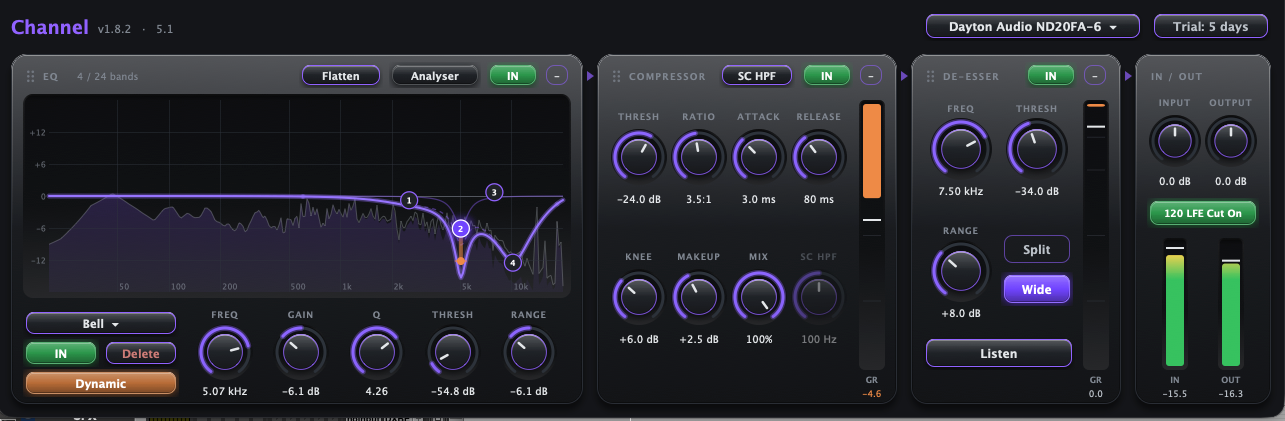
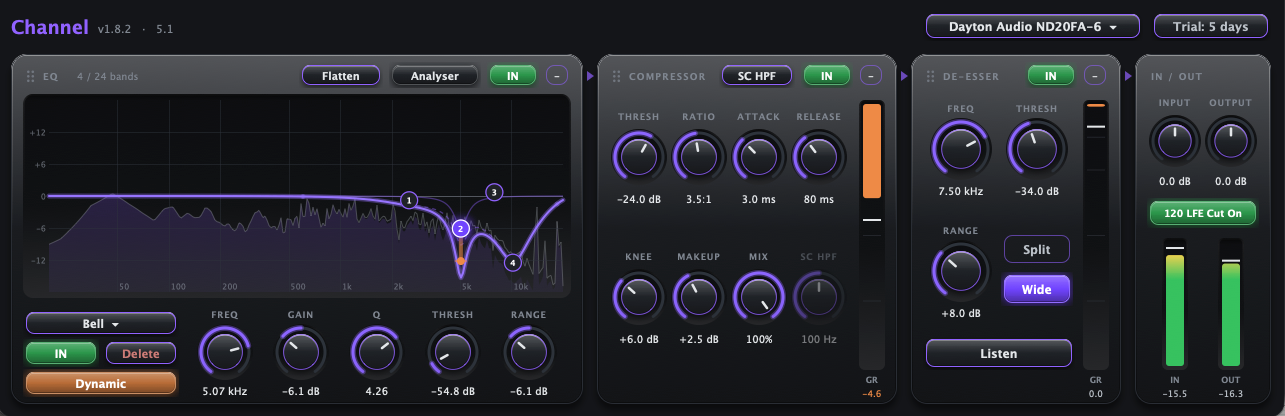
Larger Channel screenshot on its app page
Claude-Session: https://claude.ai/code/session_01UFfgZRSipLT8a9sTP7rx8N

diff --git a/docs/apps/channel.html b/docs/apps/channel.html
@@ -39,7 +39,7 @@
     <dl class="meta"><dt>Version</dt><dd>1.9.1</dd><dt>Requires</dt><dd>macOS 13 Ventura or later</dd><dt>Runs on</dt><dd>Apple silicon or Intel</dd><dt>Type</dt><dd>Pro Tools plug-in</dd></dl>
   </div>
 </div>
-<figure class="card shot"><a href="../assets/shots/channel.png"><img src="../assets/shots/channel.png" alt="Channel screenshot"></a></figure>
+<figure class="card shot wide"><a href="../assets/shots/channel.png"><img src="../assets/shots/channel.png" alt="Channel screenshot"></a></figure>
 <section class="others"><div class="eyebrow" style="margin-bottom:12px">More apps</div><div class="row"><a class="chip" style="--c:#9b6dff" href="cone.html"><img class="icon pic" style="--c:#9b6dff" src="../assets/icons/cone.png" alt="">Cone</a><a class="chip" style="--c:#9b6dff" href="paddle.html"><img class="icon pic" style="--c:#9b6dff" src="../assets/icons/paddle.png" alt="">Paddle</a><a class="chip" style="--c:#9b6dff" href="conduit.html"><img class="icon pic" style="--c:#9b6dff" src="../assets/icons/conduit.png" alt="">Conduit</a><a class="chip" style="--c:#9b6dff" href="silencer.html"><img class="icon pic" style="--c:#9b6dff" src="../assets/icons/silencer.png" alt="">Silencer</a><a class="chip" style="--c:#9b6dff" href="transmitter-network.html"><img class="icon pic" style="--c:#9b6dff" src="../assets/icons/transmitter-network.png" alt="">Transmitter Network</a><a class="chip" style="--c:#9b6dff" href="gauge.html"><img class="icon pic" style="--c:#9b6dff" src="../assets/icons/gauge.png" alt="">Gauge</a></div></section>
 </main>
 <footer class="site"><div class="wrap">

diff --git a/assets/style.css b/assets/style.css
@@ -209,3 +209,4 @@ figure.shot img { max-width: min(calc(100vw - 60px), 520px); max-height: 280px; 
 .detail ul.feat li::before { top: 11px; width: 8px; height: 8px; }
 .detail .meta { font-size: 13px; gap: 4px 14px; }
 .detail .side { grid-template-columns: 1.35fr 1fr; }
+figure.shot.wide img { max-width: min(calc(100vw - 60px), 1150px); max-height: 420px; }

diff --git a/docs/assets/style.css b/docs/assets/style.css
@@ -209,3 +209,4 @@ figure.shot img { max-width: min(calc(100vw - 60px), 520px); max-height: 280px; 
 .detail ul.feat li::before { top: 11px; width: 8px; height: 8px; }
 .detail .meta { font-size: 13px; gap: 4px 14px; }
 .detail .side { grid-template-columns: 1.35fr 1fr; }
+figure.shot.wide img { max-width: min(calc(100vw - 60px), 1150px); max-height: 420px; }

diff --git a/build.py b/build.py
@@ -141,7 +141,13 @@ def build_app(a):
         f'<a class="chip" style="--c:{o["color"]}" href="{o["id"]}.html">{icon(o, up="../")}{e(o["name"])}</a>'
         for o in APPS if o["id"] != a["id"])
     sh = shot(a, "../")
-    shot_html = f'<figure class="card shot"><a href="{sh}"><img src="{sh}" alt="{e(a["name"])} screenshot"></a></figure>' if sh else ""
+    wide = ""
+    if sh:
+        import struct
+        with open(ROOT / "assets" / "shots" / f"{a['id']}.png", "rb") as fh:
+            w, h = struct.unpack(">II", fh.read(24)[16:24])
+        wide = " wide" if w / h > 2.2 else ""
+    shot_html = f'<figure class="card shot{wide}"><a href="{sh}"><img src="{sh}" alt="{e(a["name"])} screenshot"></a></figure>' if sh else ""
     body = f"""<main class="wrap" style="--c:{a['color']}">
 <div class="crumb"><a href="../index.html#apps">← All apps</a></div>
 <div class="detail">
